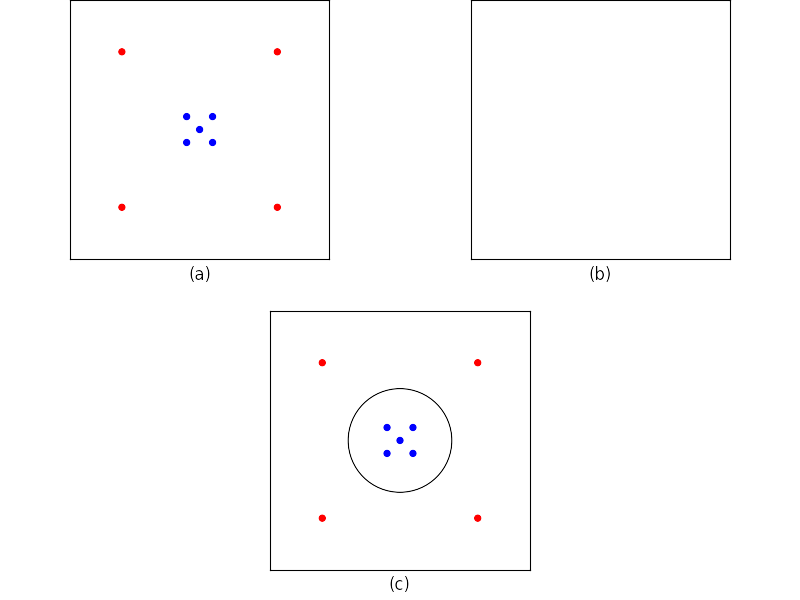
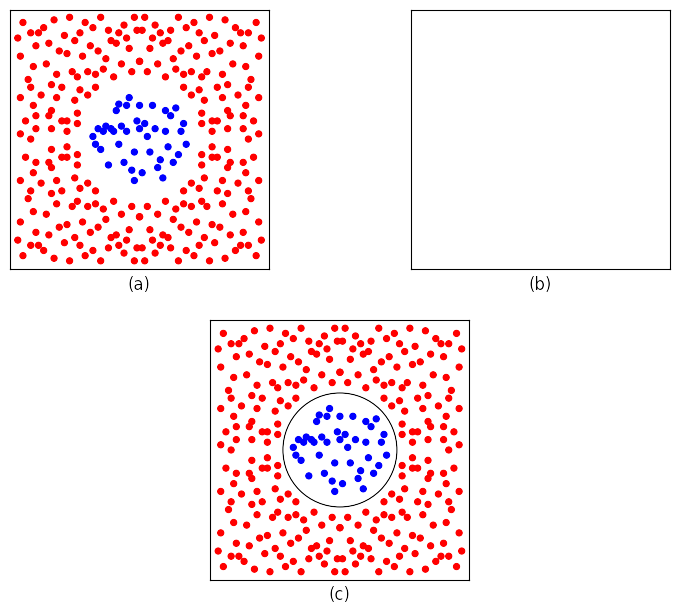
Final functional update for SVM kernel demo

Changed region(s): [[0.0, 0.0, 0.433, 0.48], [0.3093, 0.51, 0.6804, 0.99], [0.5876, 0.0, 0.9897, 0.48]]

diff --git a/src/examples/SVMKernelDemo.py b/src/examples/SVMKernelDemo.py
@@ -15,6 +15,7 @@ import surface3D
 
 def main(figureSaveLocation):
     """
+    The hyperplane in the 3D plot sometimes appears without its edge colour. If you want the edge colour, then run the script until it appears.
     """
 
     # Define the image size.
@@ -25,17 +26,76 @@ def main(figureSaveLocation):
     maxZ = 5
     minZ = -5
 
+    # Define the width of the circular border.
+    circleWidth = 2.2
+
     # Setup the scatter data for class 1.
-    class1XValues = np.array([0.0, 0.5, 0.5, -0.5, -0.5])
-    class1YValues = np.array([0.0, 0.5, -0.5, 0.5, -0.5])
+    class1XValues = np.array([
+        -1.8, -1.7, -1.6, -1.5, -1.4, -1.3, -1.2, -1.1,
+        -1.0, -0.9, -0.8, -0.8, -0.7, -0.6, -0.5, -0.5, -0.4, -0.3, -0.2, -0.2, -0.1,
+        0.0, 0.0, 0.1, 0.2, 0.3, 0.4, 0.5, 0.6, 0.7, 0.8, 0.9,
+        1.0, 1.0, 1.1, 1.2, 1.3, 1.4, 1.5, 1.6, 1.7, 1.8
+        ])
+    class1YValues = np.array([
+        0.1, -0.2, 0.4, -0.4, 0.3, 0.5, -1.0, 0.4,
+        0.3, 1.1, 1.35, -0.2, 0.5, -0.9, 1.3, 0.3, 1.6, -1.2, -0.5, -1.6, 0.7,
+        1.3, 0.4, -1.3, 0.6, 0.1, -0.5, 1.3, 0.4, -1.1, -0.8, -1.5,
+        1.1, 0.3, -0.3, 0.9, -0.9, 1.2, -0.6, 0.3, 0.6, -0.2
+        ])
     class1ZValues = np.array([maxZ - math.sqrt(i**2 + j**2) for i, j in zip(class1XValues, class1YValues)])
     class1Color = '#0000FF'  # Blue
     class1Size = 30
 
     # Setup the scatter data for class 2.
-    class2XValues = np.array([-3.0, -3.0, 3.0, 3.0])
-    class2YValues = np.array([-3.0, 3.0, -3.0, 3.0])
-    class2ZValues = np.array([maxZ - math.sqrt(i**2 + j**2) for i, j in zip(class2XValues, class2YValues)])
+    class2XValues = np.array([
+        -0.0, -0.1, -0.2, -0.3, -0.4, -0.5, -0.6, -0.7, -0.8, -0.9,
+        -0.0, -0.1, -0.2, -0.3, -0.4, -0.5, -0.6, -0.7, -0.8, -0.9,
+        -1.0, -1.1, -1.2, -1.3, -1.4, -1.5, -1.6, -1.7, -1.7, -1.8, -1.9,
+        -1.0, -1.1, -1.2, -1.3, -1.4, -1.5, -1.6, -1.7, -1.7, -1.8, -1.9,
+        -2.0, -2.0, -2.1, -2.2, -2.3, -2.3, -2.4, -2.4, -2.4, -2.5, -2.5, -2.6, -2.7, -2.8, -2.8, -2.8, -2.9,
+        -2.0, -2.0, -2.1, -2.2, -2.3, -2.3, -2.4, -2.4, -2.4, -2.5, -2.5, -2.6, -2.7, -2.8, -2.8, -2.8, -2.9,
+        -3.0, -3.0, -3.1, -3.2, -3.2, -3.3, -3.4, -3.4, -3.4, -3.5, -3.5, -3.6, -3.7, -3.8, -3.9,
+        -3.0, -3.0, -3.1, -3.2, -3.2, -3.3, -3.4, -3.4, -3.4, -3.5, -3.5, -3.6, -3.7, -3.8, -3.9,
+        -4.0, -4.0, -4.1, -4.1, -4.2, -4.2, -4.3, -4.4, -4.5, -4.6, -4.6, -4.7,
+        -4.0, -4.0, -4.1, -4.1, -4.2, -4.2, -4.3, -4.4, -4.5, -4.6, -4.6, -4.7,
+        -4.0, -4.2, -4.6,
+        0.0, 0.1, 0.2, 0.3, 0.4, 0.5, 0.6, 0.7, 0.8, 0.9,
+        0.0, 0.1, 0.2, 0.3, 0.4, 0.5, 0.6, 0.7, 0.8, 0.9,
+        1.0, 1.1, 1.2, 1.3, 1.4, 1.5, 1.6, 1.7, 1.7, 1.8, 1.9,
+        1.0, 1.1, 1.2, 1.3, 1.4, 1.5, 1.6, 1.7, 1.7, 1.8, 1.9,
+        2.0, 2.0, 2.1, 2.2, 2.3, 2.3, 2.4, 2.4, 2.4, 2.5, 2.5, 2.6, 2.7, 2.8, 2.8, 2.8, 2.9,
+        2.0, 2.0, 2.1, 2.2, 2.3, 2.3, 2.4, 2.4, 2.4, 2.5, 2.5, 2.6, 2.7, 2.8, 2.8, 2.8, 2.9,
+        3.0, 3.0, 3.1, 3.2, 3.2, 3.3, 3.4, 3.4, 3.4, 3.5, 3.5, 3.6, 3.7, 3.8, 3.9,
+        3.0, 3.0, 3.1, 3.2, 3.2, 3.3, 3.4, 3.4, 3.4, 3.5, 3.5, 3.6, 3.7, 3.8, 3.9,
+        4.0, 4.0, 4.1, 4.1, 4.2, 4.2, 4.3, 4.4, 4.5, 4.6, 4.6, 4.7,
+        4.0, 4.0, 4.1, 4.1, 4.2, 4.2, 4.3, 4.4, 4.5, 4.6, 4.6, 4.7,
+        4.0, 4.2, 4.6
+        ])
+    class2YValues = np.array([
+        3.0, 4.2, 4.7, 2.6, 3.5, 3.9, 4.4, 2.9, 4.1, 3.7,
+        -3.0, -4.2, -4.7, -2.6, -3.5, -3.9, -4.4, -2.9, -4.1, -3.7,
+        2.4, 3.8, 4.2, 3.1, 2.7, 4.7, 3.4, 2.5, 2.0, 4.3, 3.6,
+        -2.4, -3.8, -4.2, -3.1, -2.7, -4.7, -3.4, -2.5, -2.0, -4.3, -3.6,
+        1.7, 2.6, 4.5, 3.2, 1.9, 4.1, 0.6, 1.0, 2.4, 1.5, 3.8, 2.6, 4.7, 0.3, 3.3, 0.7, 4.0,
+        -1.7, -2.6, -4.5, -3.2, -1.9, -4.1, -0.6, -1.0, -2.4, -1.5, -3.8, -2.6, -4.7, -0.3, -3.3, -0.7, -4.0,
+        0.7, 2.0, 3.4, 2.5, 1.6, 4.6, 0.4, 1.1, 2.1, 0.9, 3.7, 2.9, 4.3, 1.7, 4.1,
+        -0.7, -2.0, -3.4, -2.5, -1.6, -4.6, -0.4, -1.1, -2.1, -0.9, -3.7, -2.9, -4.3, -1.7, -4.1,
+        0.9, 3.6, 2.8, 1.3, 2.0, 4.1, 2.3, 0.7, 4.5, 3.2, 1.6, 3.9,
+        -0.9, -3.6, -2.8, -1.3, -2.0, -4.1, -2.3, -0.7, -4.5, -3.2, -1.6, -3.9,
+        0.4, 0.0, 0.2,
+        3.0, 4.2, 4.7, 2.6, 3.5, 3.9, 4.4, 2.9, 4.1, 3.7,
+        -3.0, -4.2, -4.7, -2.6, -3.5, -3.9, -4.4, -2.9, -4.1, -3.7,
+        2.4, 3.8, 4.2, 3.1, 2.7, 4.7, 3.4, 2.5, 2.0, 4.3, 3.6,
+        -2.4, -3.8, -4.2, -3.1, -2.7, -4.7, -3.4, -2.5, -2.0, -4.3, -3.6,
+        1.7, 2.6, 4.5, 3.2, 1.9, 4.1, 0.6, 1.0, 2.4, 1.5, 3.8, 2.6, 4.7, 0.3, 3.3, 0.7, 4.0,
+        -1.7, -2.6, -4.5, -3.2, -1.9, -4.1, -0.6, -1.0, -2.4, -1.5, -3.8, -2.6, -4.7, -0.3, -3.3, -0.7, -4.0,
+        0.7, 2.0, 3.4, 2.5, 1.6, 4.6, 0.4, 1.1, 2.1, 0.9, 3.7, 2.9, 4.3, 1.7, 4.1,
+        -0.7, -2.0, -3.4, -2.5, -1.6, -4.6, -0.4, -1.1, -2.1, -0.9, -3.7, -2.9, -4.3, -1.7, -4.1,
+        0.9, 3.6, 2.8, 1.3, 2.0, 4.1, 2.3, 0.7, 4.5, 3.2, 1.6, 3.9,
+        -0.9, -3.6, -2.8, -1.3, -2.0, -4.1, -2.3, -0.7, -4.5, -3.2, -1.6, -3.9,
+        0.4, 0.0, 0.2
+        ])
+    class2ZValues = np.array([max(maxZ - math.sqrt(i**2 + j**2), 0.0) for i, j in zip(class2XValues, class2YValues)])
     class2Color = '#FF0000'  # Red
     class2Size = 30
 
@@ -73,7 +133,7 @@ def main(figureSaveLocation):
     scatterplot.graphGeneration(scatterXValues, scatterYValues, currentFigure=currentFigure, colors=colors, sizes=sizes)
     plotWithBoundary.set_xlim(left=minX, right=maxX)
     plotWithBoundary.set_ylim(bottom=minY, top=maxY)
-    currentFigure.gca().add_artist(plt.Circle((0, 0), 2.0, fill=False))
+    currentFigure.gca().add_artist(plt.Circle((0, 0), circleWidth, fill=False))
 
     # Make all the tick marks invisible, and label the x axes.
     labels = ['(c)', '(b)', '(a)']
@@ -83,8 +143,7 @@ def main(figureSaveLocation):
         setLabels(ax, xLabel=currentLabel)
         ax.xaxis.set_label_coords(0.5, -0.025)
 
-    plt.savefig(figureSaveLocation + '2D', bbox_inches=0, transparent=True)
-    plt.show()
+    plt.savefig(figureSaveLocation + '2D', bbox_inches='tight', transparent=True)
 
     # Create the 3D graph showing the new division.
     currentFigure = plt.figure()
@@ -92,21 +151,22 @@ def main(figureSaveLocation):
     gs.update(left=0, right=1, bottom=0, top=1, wspace=0.05)#, hspace=0.05)
     scatter3D = plt.subplot(gs[1:-1, 1:-1], projection='3d')
     scatter3D.axis('scaled')
+    scatter3D.set_xlim3d(minX, maxX)
+    scatter3D.set_ylim3d(minY, maxY)
+    scatter3D.set_zlim3d(0, maxZ)
     scatterplot3D.graphGeneration(scatterXValues, scatterYValues, scatterZValues, currentFigure=currentFigure, colors=colors, sizes=sizes)
     X = np.arange(minX, maxX + 1)
     Y = np.arange(minY, maxY + 1)
     X, Y = np.meshgrid(X, Y)
-    Z = np.zeros(np.shape(X)) + (maxZ - 2)
-    surface3D.graphGeneration([X], [Y], [Z], currentFigure=currentFigure, color=['black'], edgeColor=['black'], transparency=[0.1])
-    scatter3D.set_xlim3d(minX, maxX)
-    scatter3D.set_ylim3d(minY, maxY)
-    scatter3D.set_zlim3d(0, maxZ)
+    Z = np.zeros(np.shape(X)) + (maxZ - circleWidth)
+    surface3D.graphGeneration([X], [Y], [Z], currentFigure=currentFigure, color=['black'], edgeColor=['black'], transparency=[0.2])
     removeTickMarks(scatter3D, xAxis=True, yAxis=True)
     for a in scatter3D.w_zaxis.get_ticklines()+scatter3D.w_zaxis.get_ticklabels():
 	    # Used to remove the z axis ticks and tick labels.
         a.set_visible(False)
+    scatter3D.view_init(2, 104)  # Rotate figure to nicer angle.
 
-    plt.savefig(figureSaveLocation + '3D', bbox_inches=0, transparent=True)
+    plt.savefig(figureSaveLocation + '3D', bbox_inches='tight', transparent=True)
     plt.show()
 
 
